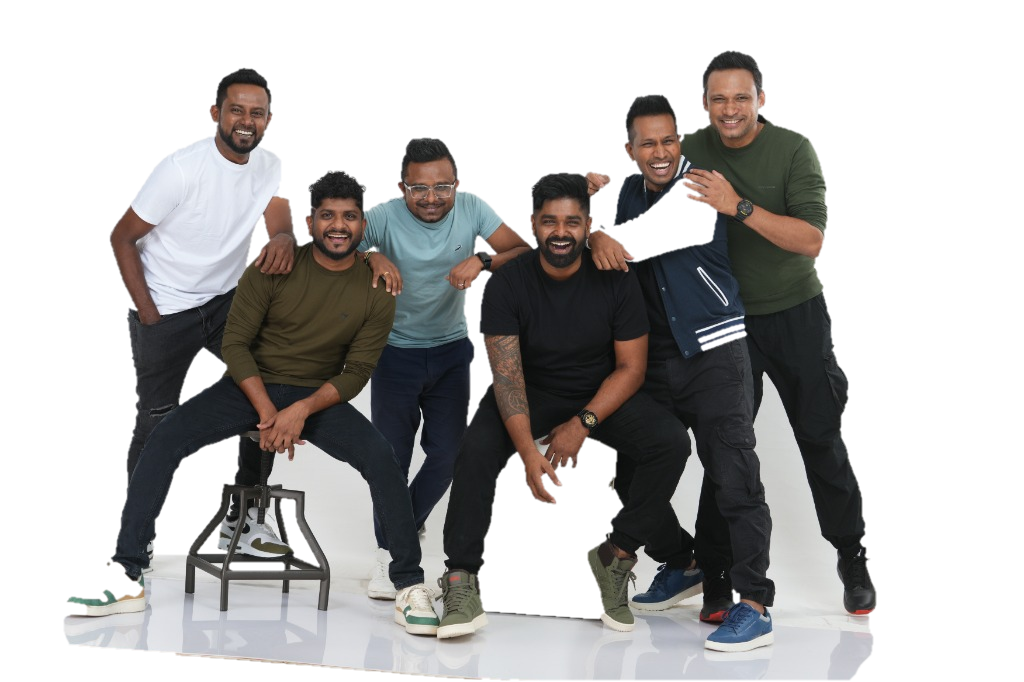
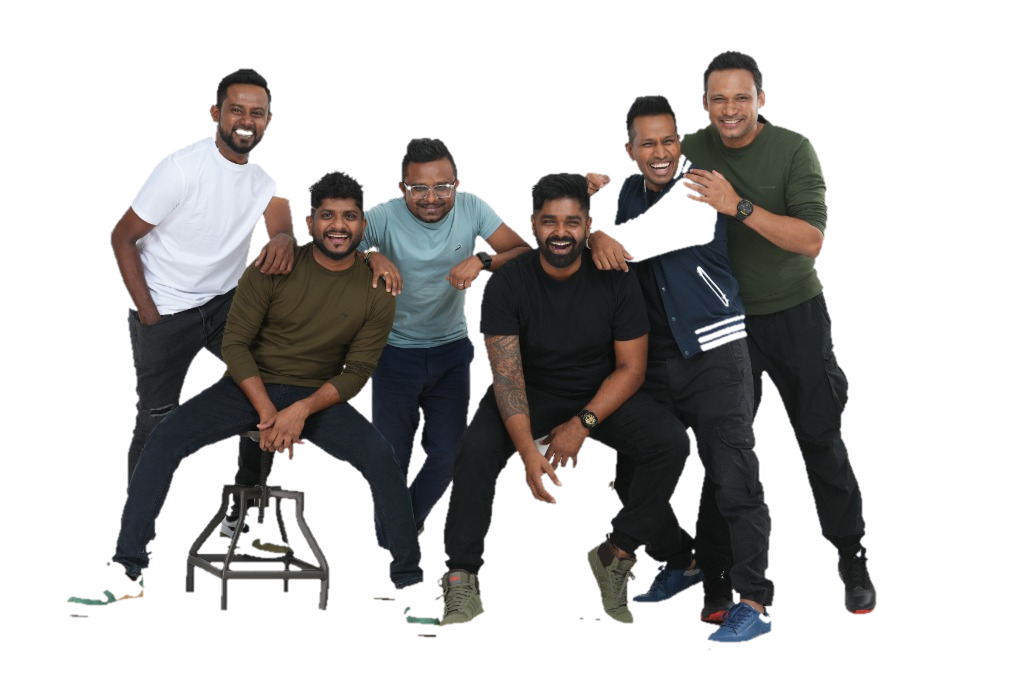
feat: refine background cutout to remove white floor and add smooth loading entrance transition

diff --git a/src/App.jsx b/src/App.jsx
@@ -105,6 +105,8 @@ function App() {
 
   const sliderRef = useRef(null);
   const [isSliderPaused, setIsSliderPaused] = useState(false);
+  const [bandImageLoaded, setBandImageLoaded] = useState(false);
+
 
   // Autonomous sliding for the MoraSpirit club gallery
   useEffect(() => {
@@ -420,17 +422,24 @@ function App() {
             className="absolute right-0 lg:right-[8%] bottom-0 w-[450px] h-[450px] bg-gradient-to-tr from-green-500/15 to-cyan-500/15 rounded-full blur-[100px] transition-transform duration-300 ease-out"
           />
           
-          {/* Cutout Image of Band Members with 3D Parallax */}
-          <img
-            ref={bandRef}
-            src="/band/daddy_cutout.png"
-            alt="Daddy Band Members"
-            className="relative max-h-[80vh] md:max-h-[85vh] object-contain w-auto right-0 lg:right-[2%] bottom-[-5%] transition-transform duration-300 ease-out drop-shadow-[0_20px_50px_rgba(34,255,68,0.15)] filter saturate-[1.1]"
-            style={{
-              transformStyle: 'preserve-3d',
-              willChange: 'transform'
-            }}
-          />
+          {/* Wrapper for smooth image loading and entry transition */}
+          <div className={`transition-all duration-[1200ms] ease-out ${
+            bandImageLoaded ? 'opacity-100 translate-y-0 scale-100' : 'opacity-0 translate-y-8 scale-95'
+          }`}>
+            {/* Cutout Image of Band Members with 3D Parallax */}
+            <img
+              ref={bandRef}
+              src="/band/daddy_cutout.png"
+              alt="Daddy Band Members"
+              onLoad={() => setBandImageLoaded(true)}
+              className="relative max-h-[80vh] md:max-h-[85vh] object-contain w-auto right-0 lg:right-[2%] bottom-[-5%] transition-transform duration-300 ease-out drop-shadow-[0_20px_50px_rgba(34,255,68,0.15)] filter saturate-[1.1]"
+              style={{
+                transformStyle: 'preserve-3d',
+                willChange: 'transform'
+              }}
+            />
+          </div>
+
         </div>
 
         {/* Hero Content Grid */}